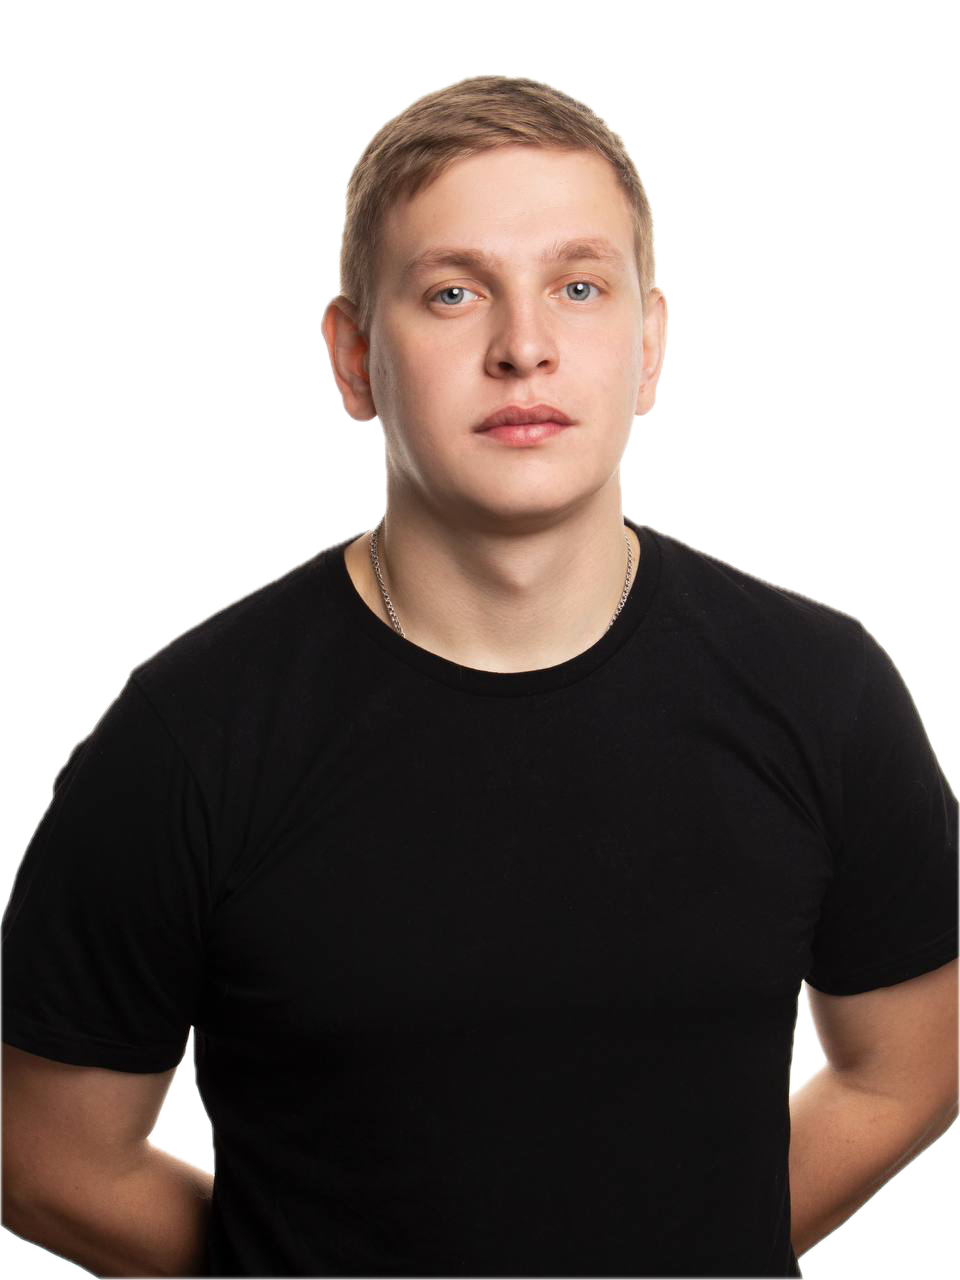
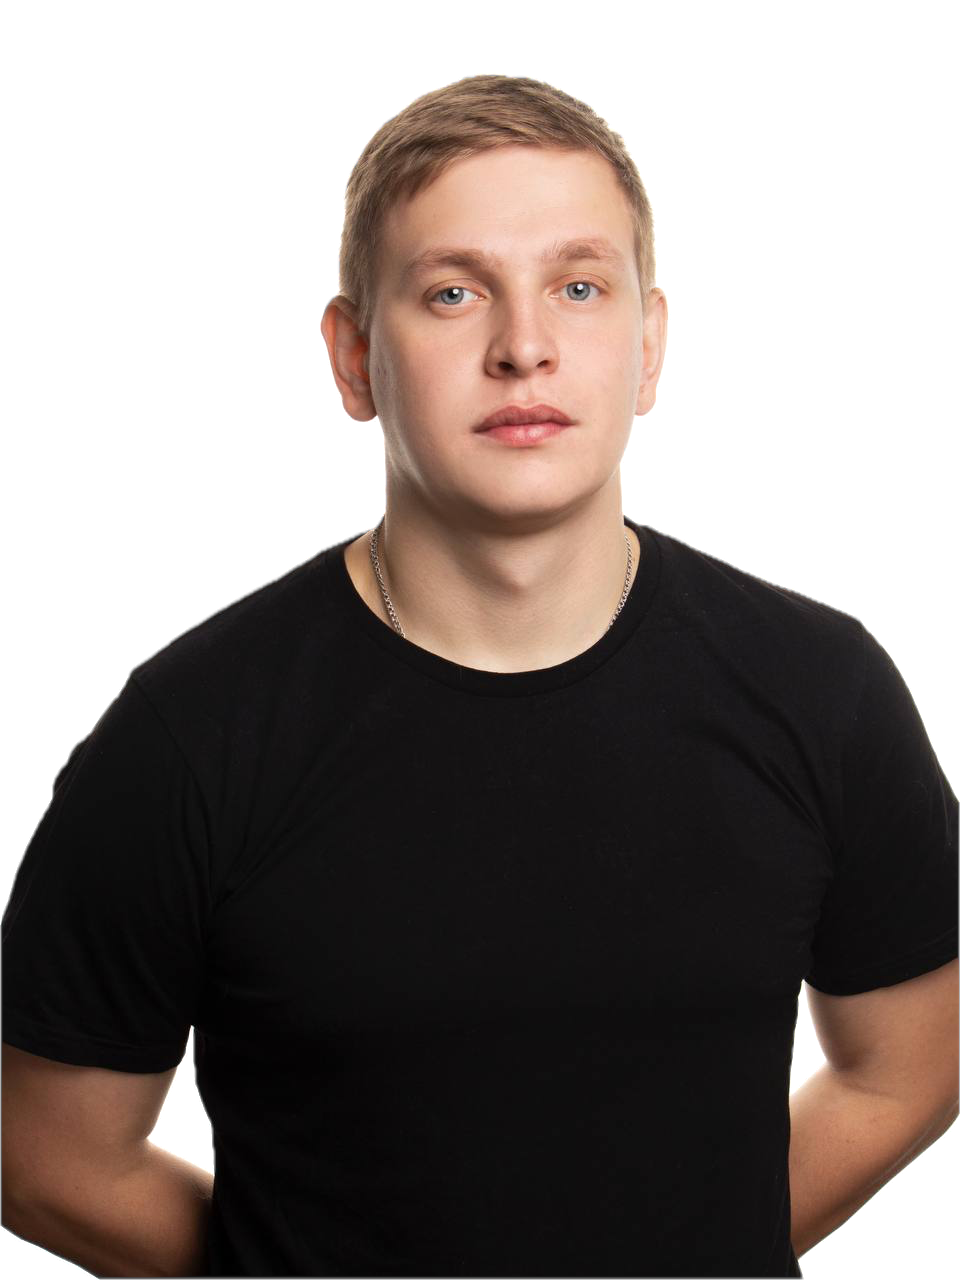
Make photo float without background in dark theme too
- Un-matte photo.png edges (remove light studio halo baked into the alpha cutout)
- Drop the light card/frame that dark mode put behind the photo; portrait now floats in both themes

Changed region(s): [[0.9688, 0.5938, 1.0, 0.625], [0.875, 0.4688, 0.9062, 0.5], [0.375, 0.0938, 0.4062, 0.125]]

diff --git a/styles.css b/styles.css
@@ -485,10 +485,9 @@ body.dark-mode .hero { background: linear-gradient(135deg, #1d150d 0%, #241810 5
 }
 /* фото без подложки: светлый студийный фон растворяем смешиванием — остаётся только портрет */
 .photo-face img { object-fit: contain; object-position: center bottom; mix-blend-mode: multiply; }
-/* в тёмной теме multiply не сработает (фон тёмный) — показываем фото в аккуратной светлой рамке */
+/* в тёмной теме multiply не нужен: фон вырезан прямо в PNG (с un-matting краёв),
+   поэтому портрет «парит» без подложки — так же, как в светлой теме */
 body.dark-mode .photo-face img { mix-blend-mode: normal; }
-body.dark-mode .photo-flip { background: #f4ede1; border-radius: 14px; box-shadow: 0 22px 56px rgba(0,0,0,0.5); }
-body.dark-mode .photo-face { border-radius: 14px; overflow: hidden; }
 
 /* единый эффект наведения для всех кнопок-действий */
 .btn, .hero-anchor-btn {
